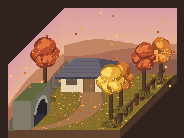
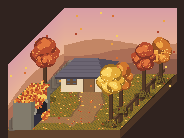
Autumn scene: leaf piles over the tunnel portal, dirt path starts at the tunnel mouth
Claude-Session: https://claude.ai/code/session_01FPZSaKiVNU2zED737yZX4w

diff --git a/tools/render_autumn.py b/tools/render_autumn.py
@@ -60,7 +60,9 @@ def build():
     def ground(x, d):
         c = 78 + int(noise(x, d) * 14); n = noise(x, d, 3)
         grass = (c + 40, c + 22, 40) if n < .55 else (c + 66, c + 28, 30) if n < .8 else (c + 20, c + 10, 34)
-        k = max(0.0, 1 - d / 40.0); px = 56 + 8 * math.sin(d / 16.0) + 3 * math.sin(d / 7.0) - 34 * k * k
+        px = 56 + 8 * math.sin(d / 16.0) + 3 * math.sin(d / 7.0)
+        if 22 <= x < 62 and abs(d - 20) < 6.5 + (0 if x < 50 else (x - 50) * .6): return (150 + int(noise(x, d, 1) * 18), 106 + int(noise(x, d, 2) * 14), 70)   # 터널 입구에서 곧장 뻗는 길
+        if d < 14: return grass
         a = abs(x - px)
         if a < 11: return (150 + int(noise(x, d, 1) * 18), 106 + int(noise(x, d, 2) * 14), 70)
         if a < 13: return (122, 90, 56)
@@ -122,6 +124,13 @@ def build():
         sc.img.paste(lay, (0, 0), mask); sc.px = sc.img.load(); sc.d = ImageDraw.Draw(sc.img)
         for k in range(21):                                                                                          # 아치 테두리(밝은 콘크리트)
             a = sc.P(x1, cx - hw * math.cos(math.pi * k / 20), 12 + 9 * math.sin(math.pi * k / 20)); sc.d.rectangle([a[0], a[1] - 2, a[0] + 1, a[1]], fill=(150, 148, 138))
+        LC2 = [(214, 104, 44), (236, 160, 60), (170, 56, 36), (246, 206, 92), (190, 80, 40)]; rl = random.Random(77)
+        for _ in range(520):                                                                                         # 언덕 위에 쌓인 낙엽(윗면을 거의 덮는다)
+            X, Y = sc.P(rl.uniform(x0, x1), rl.uniform(d0, d1), h); sc.d.rectangle([X, Y, X + 1, Y + 1], fill=rl.choice(LC2))
+        for _ in range(150):                                                                                         # 아치 윗부분으로 흘러내린 낙엽: 입구 윗선을 가린다
+            q = sc.P(x1, cx + rl.uniform(-hw, hw), 21 + rl.uniform(-4, 5)); y0_ = q[1] + rl.randint(-4, 0); sc.d.rectangle([q[0], y0_, q[0] + 1, y0_ + rl.randint(1, 3)], fill=rl.choice(LC2))
+        for _ in range(110):                                                                                         # 입구 오른쪽 바닥 모서리의 낙엽 더미
+            q = sc.P(x1 + rl.uniform(0, 3), cx + hw * rl.uniform(.15, 1.1), rl.uniform(0, 5)); sc.d.rectangle([q[0], q[1], q[0] + 1, q[1] + 1], fill=rl.choice(LC2))
     sc.jobs.append((20, portal))
     sc.run()
     # 감나무의 감(주황 점)과 떨어지는 낙엽(공중)
